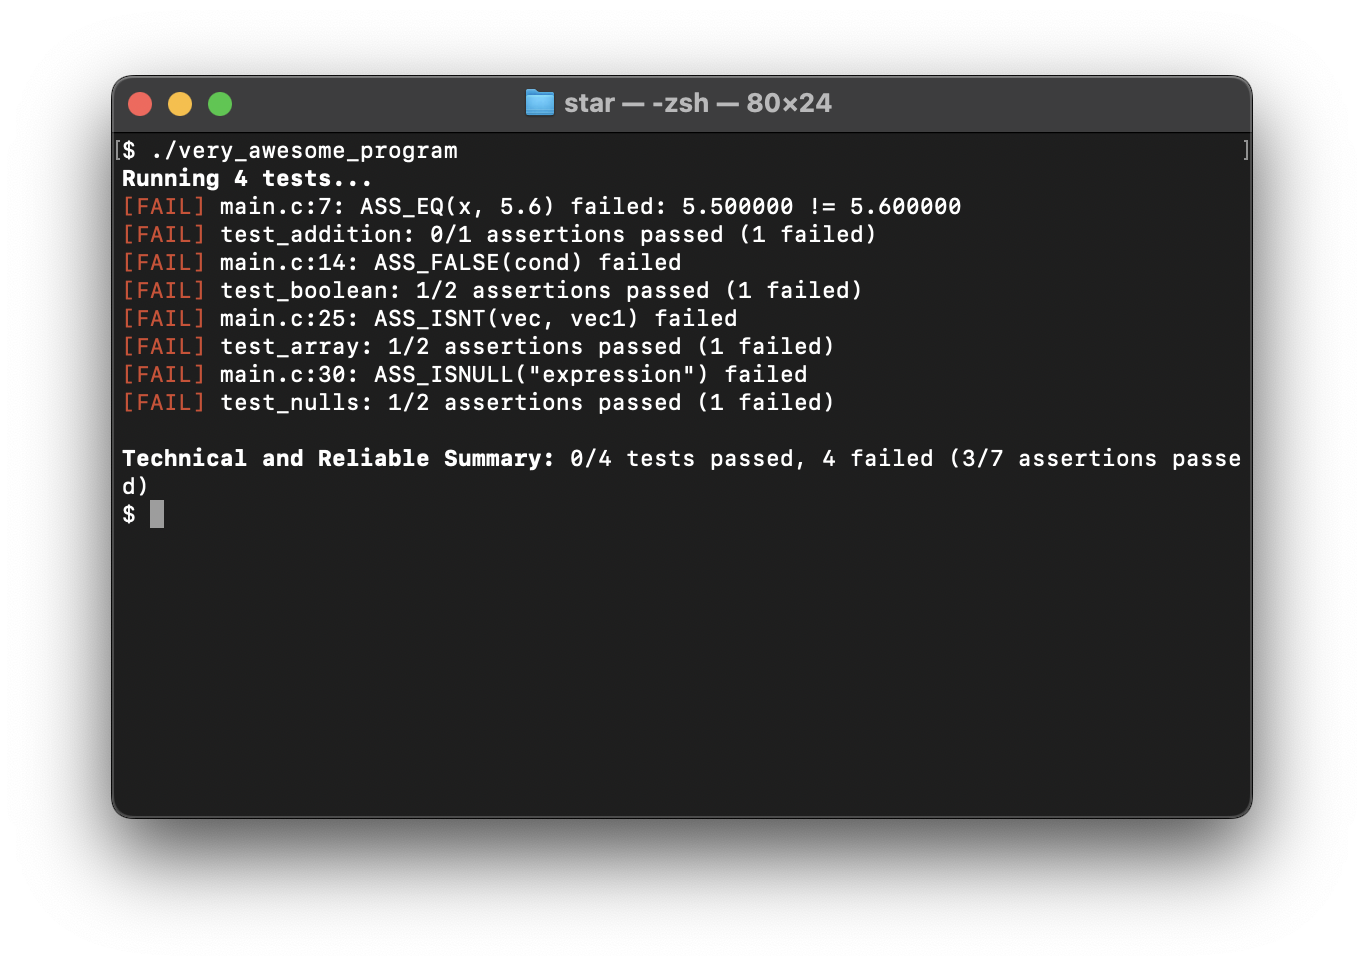
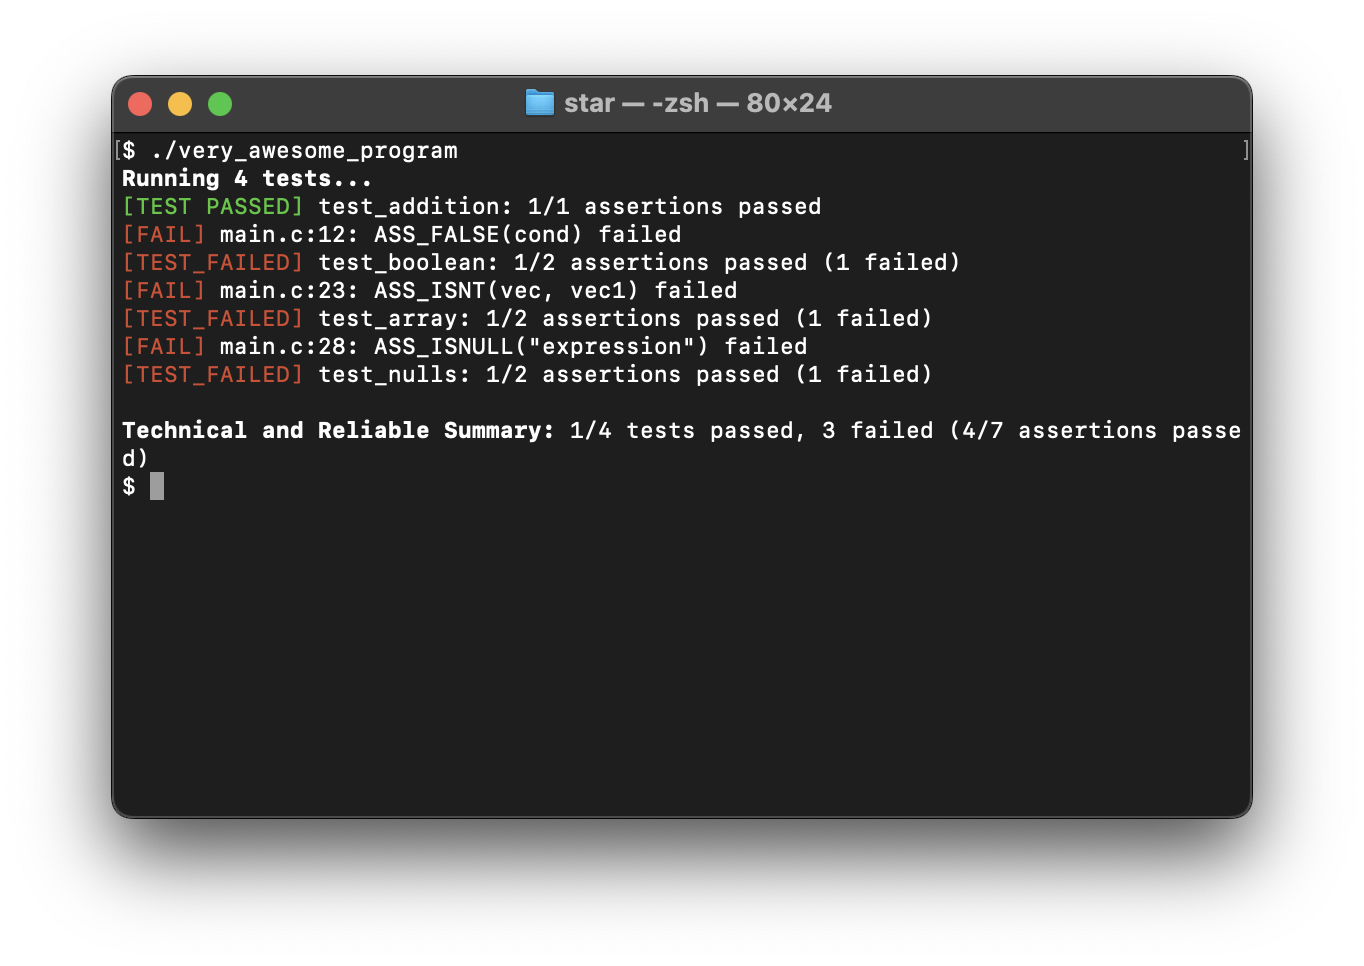
update readme and example screenshot

Changed region(s): [[0.0924, 0.1863, 0.9238, 0.559], [0.6466, 0.1863, 0.7082, 0.2174]]

diff --git a/README.md b/README.md
@@ -5,15 +5,16 @@ STAR (Super Technical And Reliable) testing suite written in C.
 > I made this to be used in my personal C/C++ projects, it is very likely not as performant as many other testing suites out there, but I am ensuring in my development that it's easy to use.
 
 ## Current Functionality
-### Tests and Asserts (still adding more)
+### Tests and Asserts (developing more)
 Currently, 256 tests can be written.
 #### Equality and Inequality
 - `ASS_EQ(a, b)` / `ASS_NEQ(a, b)`
 - `ASS_KINDAEQ(a, b, d)` / `ASS_KINDANEQ(a, b, d)` (Not/AlmostEqual functionality)
 
 #### Boolean / Truthiness
-- `ASS_TRUE(int cond)` 
-- `ASS_FALSE(int cond)`
+- `ASS_TRUE(int cond)` / `ASS_FALSE(int cond)`
+- `ASS_IS(expr)` / `ASS_ISNT(expr)` (Objects - structs, arrays, etc.)
+- `ASS_ISNULL(expr)` / `ASS_ISNTNULL` (Null checker)
 
 ### Noncomprehensive Example
 ```c
@@ -21,7 +22,7 @@ Currently, 256 tests can be written.
 
 TEST(test_addition) {
     float x = 2.2 + 3.3;
-    ASS_EQ(x, 5.6);
+    // ASS_EQ(x, 5.6);  // this will fail & abort the testcase.
     ASS_KINDANEQ(x, 12.6, NULL);  // difference defaulted to 6.9
 }
 
@@ -31,14 +32,32 @@ TEST(test_boolean) {
     ASS_FALSE(cond);
 }
 
+typedef struct {
+    float x, y, z;
+} vec3;
+
+TEST(test_array) {
+    vec3 vec  = {4, 3, 1};
+    vec3 vec1 = {4, 3, 1};
+    ASS_IS(vec, vec1);
+    ASS_ISNT(vec, vec1);
+}
+
+TEST(test_nulls) {
+    ASS_ISNULL(NULL);
+    ASS_ISNULL("expression");
+}
+
 // Automatic test case running by "hijacking" the `main()` function.
 // Use #define STAR_NO_ENTRY *before* including `star.h` to disable this.
-// Then use star_run(bool enable_output) to run all tests.
+// Then use star_run(bool extra_output) to run all tests.
 ```
 **Colored Output:**
-![Totally Working](scs/example1.png)
+![Epic Output](scs/example.png)
 
 ### Dev Notes
-- [ ] Object truthiness (struct, array, etc.)
-- [ ] Need to consider epsilon-based floating-point comparison
+- [x] More informative outputs
+- [x] Object truthiness (struct, array, etc.)
+- [ ] Collections / Sequences
+- [ ] Consider epsilon-based floating-point comparison
 - [ ] Parameterized testing
